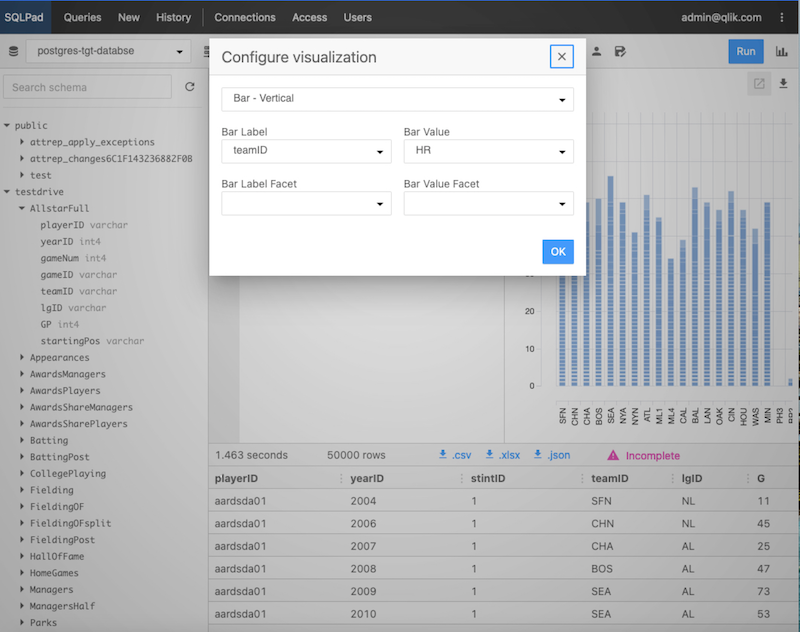
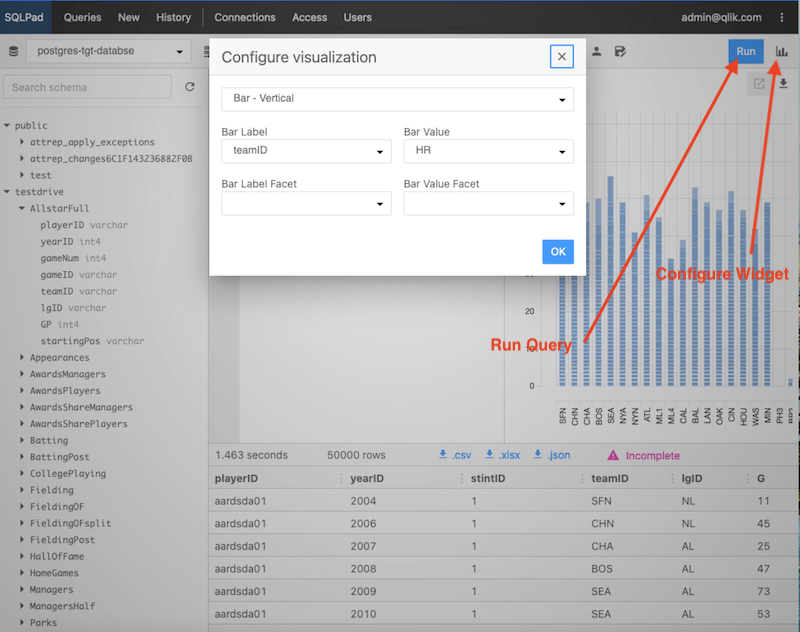
diagramming

diff --git a/content/tutorials.md b/content/tutorials.md
@@ -4,12 +4,13 @@
 
 First things first, we need to open Qlik Replicate. 
 
+* url:__https://YOUR_SERVER_IP_ADDRESS:3552/attunityreplicate/__
+
    1.Open Replicate  in a new tab in your broswer. 
 
    2.For url, username and password please refer to [GettingStarted Page](../getting_started)
    -  Please note that you may need to press accept security and proceed 
 
-  
 Once you are logged in you will see the main screen for Qlik Replicate.
 
 ![](/images/attunityreplicate.png)
@@ -19,7 +20,7 @@ Once you are logged in you will see the main screen for Qlik Replicate.
 To navigate the tutorial, it is best to follow the steps in order. You can do this by 
 pressing the `NEXT`link on bottom of each page. If for some reason you want to skip 
 to a particular section of the lab you can navigate via the table of contents listed below.
-
+Also the Navigation Menu on top of this documentation site can be used to navigate around.
 
 ### Tutorial Table of Content
 

diff --git a/content/db-run-task.md b/content/db-run-task.md
@@ -4,8 +4,6 @@ section: Database-to-Database Replication
 tutorialtype: replicate
 permalink: /replicate/tutorial/db-run-task.php
 ---
-*Optional
-Before you  
 
 After you press `Run`, Replicate will automatically switch from **Designer** mode to **Monitor** mode. 
 You will be able to watch the status of the full load as it occurs, and then switch to monitoring 
@@ -39,13 +37,16 @@ You can run any query on testdrive tables and see the new data that was loaded.
 
 **You can run sample query** 
 
-- Execute Query Such as `select * from testdrive."Batting";`
+- Execute Query Such as `select * from testdrive."Batting";` to see the data movement from MySQL source to Target.
 
 ![SQLPad2 Image](/images/prod/sqlpad2.png)
 
 - Also Configure a Quick Widget to see the values in postgres Tables
 
+Press the Widget button and configure Label and Value
+
 ![SQLPad3 Image](/images/prod/sqlpad3.png)
+
 
 ![SQLPad4 Image](/images/prod/sqlpad4.png)
 

diff --git a/content/db-mysql-source.md b/content/db-mysql-source.md
@@ -33,19 +33,21 @@ like  `MySQL Source`,
 
 You will notice as we proceed that the content of the configuration window is context-sensitive.
 
-![MySQL Source 2 Image](/images/mysql-src-2.png)
-
 ![MySQL Source 3 Image](/images/mysql-src-3.png)
 
 Fill in the blanks as indicated in the images above:
+
+*Please note only for mysql user will be 'root'*
+
 * Server: `127.0.0.1`
 * Port: `3306`
 * User: `root`
 * Password: `Aws_immersion123`
 * Security/SSL Mode: `None`
 
-and then click on `Test Connection`. Your screen should look like the following, indicating that
-your connection succeeded.
+Click on `Test Connection` button.
+
+Your screen should look like the followin;, indicating thatyour connection succeeded.
 
 ![MySQL Source 4 Image](/images/mysql-src-4.png)
 
